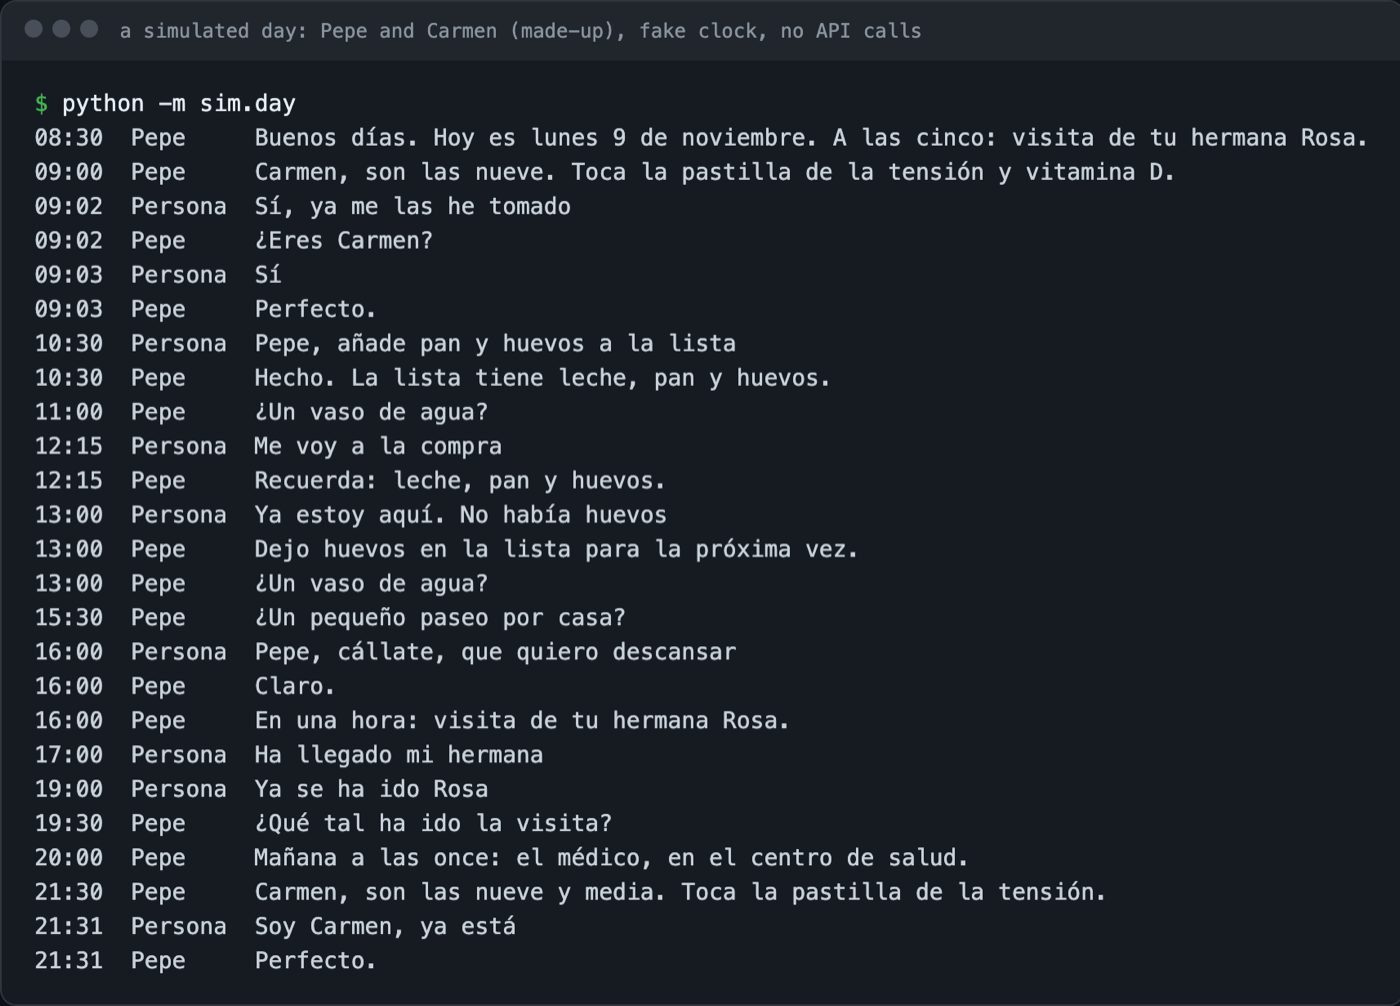
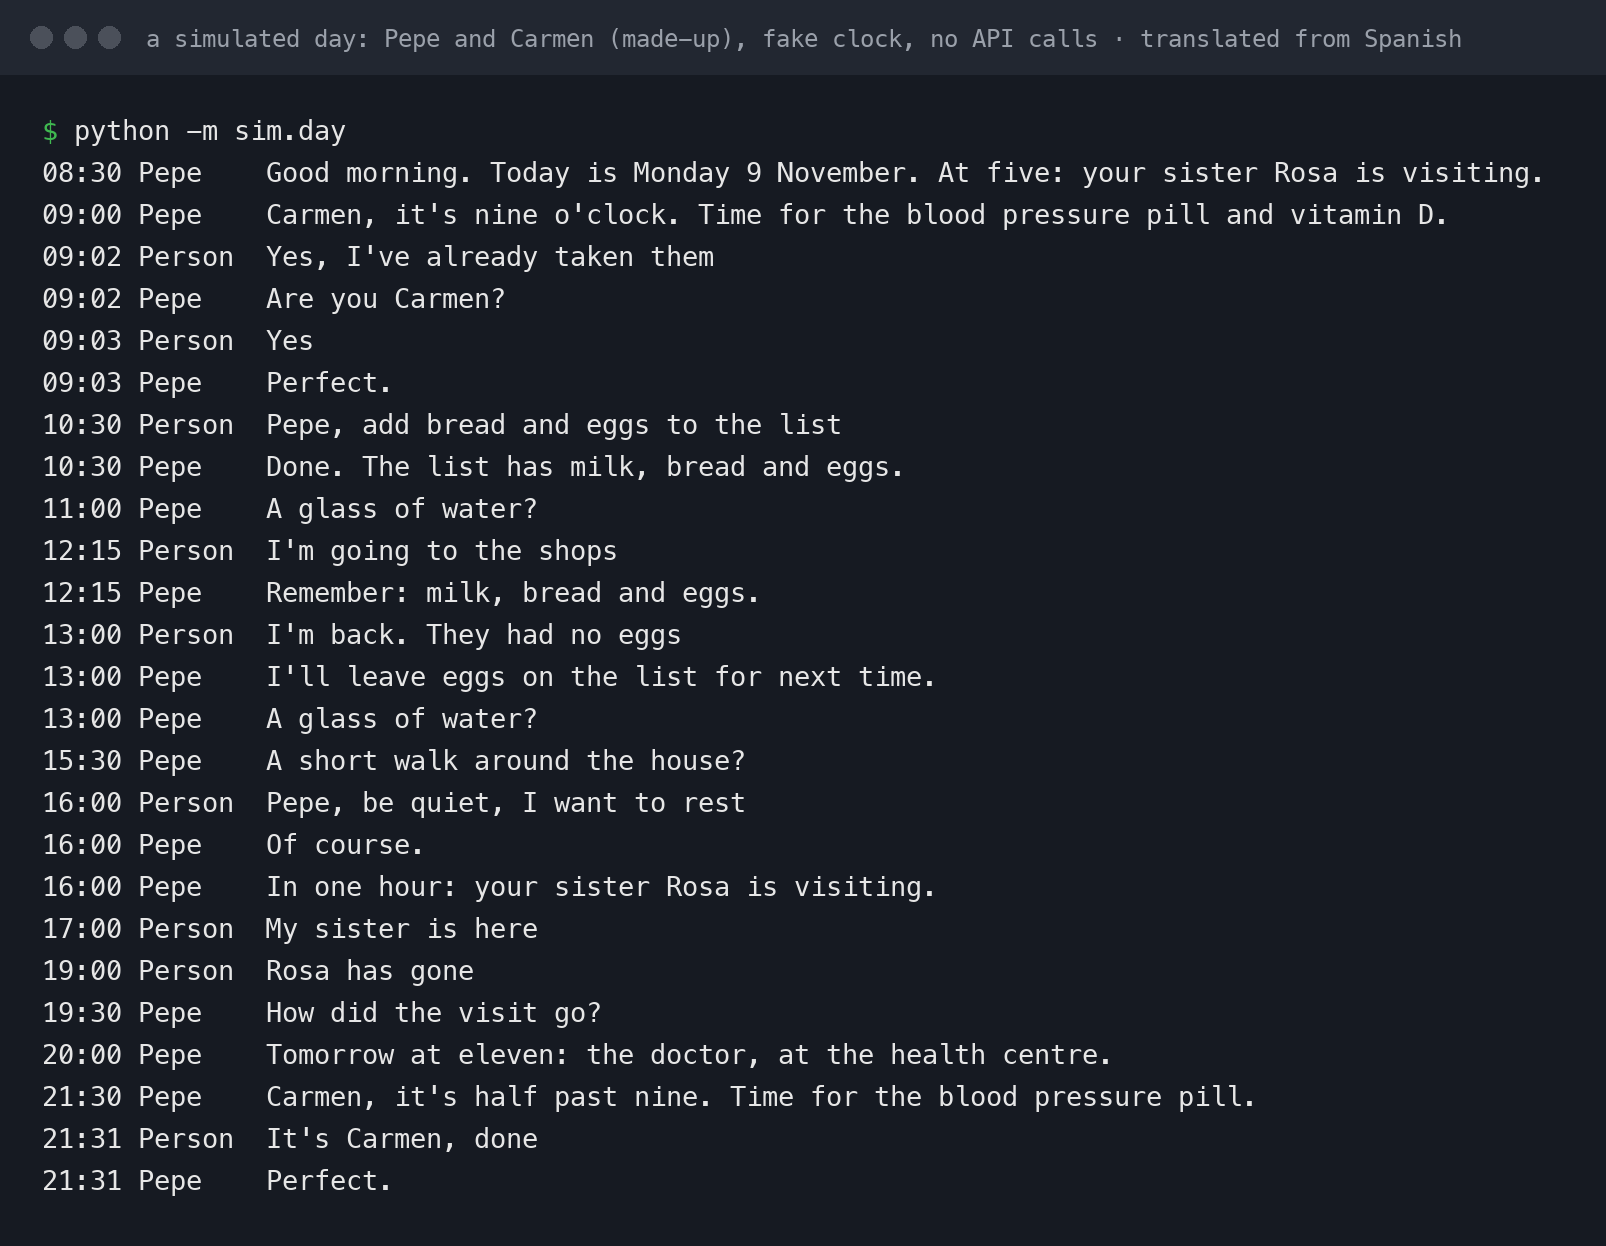
KORE in its new Persephone design, with the app, console and simulated day shown in English

diff --git a/index.html b/index.html
@@ -180,7 +180,7 @@ details.more li b{display:block;margin:0 0 1px;font-size:14.5px;color:var(--fg)}
 <section class="view" id="projects">
  <div class="ctrl"><div><div class="eyebrow">Projects</div><h2 style="margin-bottom:4px">What I'm building.</h2><div class="dragh">Scroll sideways or drag → · click a project to open it</div></div>
  <div class="arrows"><button id="pl" aria-label="Previous">←</button><button id="pr" aria-label="Next">→</button></div></div>
- <div class="prow" id="prow"><a class="pcard dark" href="#p-sylvie" style="background:radial-gradient(120% 90% at 50% 100%,#3B2A7A 0%,#16122E 55%,#0B0A14 100%)"><div class="plabel">Local AI assistant</div><div class="pname">Sylvie</div><div class="art"><div class="shotc syl"><div class="sbar"><i></i><i></i><i></i><span>Sylvie · running on my laptop</span><b class="sorb"></b></div><div class="sbody"><div class="sm a">Hey Lea, what are we building today?</div><div class="sm b">Résume mes notes de finance 📄</div><div class="sm a">Voilà : 3 points clés, avec les sources.</div><div class="sm b">¿Y qué tengo mañana?</div><div class="sm a typing"><u></u><u></u><u></u></div></div><div class="sstat"><span>Qwen 9B · 27B</span><span>Runs locally</span><span>EN · ES · FR</span></div></div></div></a><a class="pcard dark" href="#p-traderbunny" style="background:linear-gradient(160deg,#0F3B2A 0%,#0B1F17 60%,#06120D 100%)"><div class="plabel">AI investment committee</div><div class="pname">TradeBunny</div><div class="art"><div class="shotc"><img src="demos/tradebunny-debate.png" alt="A TradeBunny council meeting: blind memos, objections, rebuttals, risk check and verdict" loading="lazy"></div></div></a><a class="pcard" href="#p-studiply" style="background:linear-gradient(180deg,#FFFFFF 0%,#F3EEFF 55%,#E3D7FF 100%)"><div class="plabel">iPhone &amp; web app</div><div class="pname">Studiply</div><div class="art"><div class="shotc"><img src="demos/studiply.png" alt="Studiply turning a lecture into a summary, with the study assistant" loading="lazy"></div></div></a><a class="pcard dark" href="#p-survival" style="background:linear-gradient(170deg,#3A0F14 0%,#1C0A0C 60%,#0E0607 100%)"><div class="plabel">AI trading experiment</div><div class="pname">Survival Council</div><div class="art"><div class="shotc"><img src="demos/survival-council.png" alt="Survival Council live dashboard" loading="lazy"></div></div></a><a class="pcard" href="#p-kore" style="background:linear-gradient(170deg,#FFF6E6 0%,#FFE3C7 55%,#FFC9A8 100%)"><div class="plabel">Voice companion · Robotics</div><div class="pname">KORE</div><div class="art"><div class="phoneshot"><img src="demos/kore-home.png" alt="KORE on a phone: Carmen's home screen with her next reminder, today's pills, a button to talk to Pepe and the shopping list" loading="lazy"></div></div></a></div>
+ <div class="prow" id="prow"><a class="pcard dark" href="#p-sylvie" style="background:radial-gradient(120% 90% at 50% 100%,#3B2A7A 0%,#16122E 55%,#0B0A14 100%)"><div class="plabel">Local AI assistant</div><div class="pname">Sylvie</div><div class="art"><div class="shotc syl"><div class="sbar"><i></i><i></i><i></i><span>Sylvie · running on my laptop</span><b class="sorb"></b></div><div class="sbody"><div class="sm a">Hey Lea, what are we building today?</div><div class="sm b">Résume mes notes de finance 📄</div><div class="sm a">Voilà : 3 points clés, avec les sources.</div><div class="sm b">¿Y qué tengo mañana?</div><div class="sm a typing"><u></u><u></u><u></u></div></div><div class="sstat"><span>Qwen 9B · 27B</span><span>Runs locally</span><span>EN · ES · FR</span></div></div></div></a><a class="pcard dark" href="#p-traderbunny" style="background:linear-gradient(160deg,#0F3B2A 0%,#0B1F17 60%,#06120D 100%)"><div class="plabel">AI investment committee</div><div class="pname">TradeBunny</div><div class="art"><div class="shotc"><img src="demos/tradebunny-debate.png" alt="A TradeBunny council meeting: blind memos, objections, rebuttals, risk check and verdict" loading="lazy"></div></div></a><a class="pcard" href="#p-studiply" style="background:linear-gradient(180deg,#FFFFFF 0%,#F3EEFF 55%,#E3D7FF 100%)"><div class="plabel">iPhone &amp; web app</div><div class="pname">Studiply</div><div class="art"><div class="shotc"><img src="demos/studiply.png" alt="Studiply turning a lecture into a summary, with the study assistant" loading="lazy"></div></div></a><a class="pcard dark" href="#p-survival" style="background:linear-gradient(170deg,#3A0F14 0%,#1C0A0C 60%,#0E0607 100%)"><div class="plabel">AI trading experiment</div><div class="pname">Survival Council</div><div class="art"><div class="shotc"><img src="demos/survival-council.png" alt="Survival Council live dashboard" loading="lazy"></div></div></a><a class="pcard" href="#p-kore" style="background:linear-gradient(170deg,#FBF7F1 0%,#F3E8D6 55%,#E9C9C4 100%)"><div class="plabel">Voice companion · Robotics</div><div class="pname">KORE</div><div class="art"><div class="phoneshot"><img src="demos/kore-home.png" alt="KORE on a phone, shown in English: Carmen's home screen with a button to talk to Pepe, what comes next, today's pills and the shopping list" loading="lazy"></div></div></a></div>
 </section>
 
 <section class="view" id="p-sylvie">
@@ -225,12 +225,12 @@ details.more li b{display:block;margin:0 0 1px;font-size:14.5px;color:var(--fg)}
  </div>
 </section><section class="view" id="p-kore">
  <a class="back" href="#projects">← All projects</a>
- <div class="dhero" style="background:linear-gradient(170deg,#FFF6E6 0%,#FFE3C7 55%,#FFC9A8 100%)"><div class="dtext"><div class="plabel">Voice companion · Work in progress</div><h2>KORE</h2><p>A Spanish voice companion for older people. Code handles safety.</p><div class="dbtns"><a class="btn dark" href="https://github.com/lpesseygirod/kore" target="_blank">View code on GitHub ↗</a><a class="btn" href="https://github.com/lpesseygirod/kore#readme" target="_blank">Read the README</a><a class="btn glass" href="#demo-kore">Watch demo ↓</a></div></div><div class="art big"><div class="phoneshot"><img src="demos/kore-home.png" alt="KORE on a phone: Carmen's home screen with her next reminder, today's pills, a button to talk to Pepe and the shopping list" loading="lazy"></div></div></div>
+ <div class="dhero" style="background:linear-gradient(170deg,#FBF7F1 0%,#F3E8D6 55%,#E9C9C4 100%)"><div class="dtext"><div class="plabel">Voice companion · Work in progress</div><h2>KORE</h2><p>A Spanish voice companion for older people. Code handles safety.</p><div class="dbtns"><a class="btn dark" href="https://github.com/lpesseygirod/kore" target="_blank">View code on GitHub ↗</a><a class="btn" href="https://github.com/lpesseygirod/kore#readme" target="_blank">Read the README</a><a class="btn glass" href="#demo-kore">Watch demo ↓</a></div></div><div class="art big"><div class="phoneshot"><img src="demos/kore-home.png" alt="KORE on a phone, shown in English: Carmen's home screen with a button to talk to Pepe, what comes next, today's pills and the shopping list" loading="lazy"></div></div></div>
  <div class="dgrid">
-  <div class="block wide"><h4>Overview</h4><p>KORE is a voice companion in Spanish for older people who don't use apps easily. Its voice, Pepe, starts conversations, reminds them about medicines and appointments, and keeps them in touch with family. I built it around one rule: the AI chooses the words, but tested code decides anything about medicines, messages or help.</p><div class="more" hidden><p>I started KORE with my grandparents in mind. In a home of two, "yes, I took it" from the wrong person is a medication error, so Pepe asks who is speaking before recording anything personal.</p><p>It's written in Python around one SQLite database. A reminder engine decides when things are due. A manners layer decides whether and how to say them. The conversation runs on the Claude API, which can only act through 46 tools.</p><p>The hardest part was making the AI unable to cause harm. Before a medicine, appointment or message is saved, code writes the sentence the person says yes to, so it matches what is stored. Outside text (news, family messages, photos) blocks every change in that turn, so a headline can't give Pepe orders.</p><p>A yes only counts when code checks it: the next turn, the same person, no "pero". The database makes logging a dose twice impossible.</p><p>I wrote more than 1,000 offline tests. A fake clock simulates a whole day in 0.12 seconds. I also wrote 71 scenarios, like chest pain or a scam call. Each runs five times against the real model, and a separate AI judge scores it. Medicine, safety and honesty must pass 5 out of 5.</p><p>Next, I want Sylvie, my own local model, to become the brain instead of Claude.</p></div><button class="readmore" type="button" aria-expanded="false">Read more ↓</button></div>
+  <div class="block wide"><h4>Overview</h4><p>KORE is a voice companion in Spanish for older people who don't use apps easily. Its voice, Pepe, starts conversations, reminds them about medicines and appointments, and keeps them in touch with family. I built it around one rule: the AI chooses the words, but tested code decides anything about medicines, messages or help.</p><div class="more" hidden><p>I started KORE with my grandparents in mind. In a home of two, "yes, I took it" from the wrong person is a medication error, so Pepe asks who is speaking before recording anything personal.</p><p>It's written in Python around one SQLite database. A reminder engine decides when things are due. A manners layer decides whether and how to say them. The conversation runs on the Claude API, which can only act through 46 tools.</p><p>The hardest part was making the AI unable to cause harm. Before a medicine, appointment or message is saved, code writes the sentence the person says yes to, so it matches what is stored. Outside text (news, family messages, photos) blocks every change in that turn, so a headline can't give Pepe orders.</p><p>A yes only counts when code checks it: the next turn, the same person, no "but". The database makes logging a dose twice impossible.</p><p>I wrote more than 1,000 offline tests. A fake clock simulates a whole day in 0.12 seconds. I also wrote 71 scenarios, like chest pain or a scam call. Each runs five times against the real model, and a separate AI judge scores it. Medicine, safety and honesty must pass 5 out of 5.</p><p>Next, I want Sylvie, my own local model, to become the brain instead of Claude.</p></div><button class="readmore" type="button" aria-expanded="false">Read more ↓</button></div>
   <div class="block"><h4>Built with</h4><div class="chips"><span>Python</span><span>Claude API</span><span>SQLite</span><span>Starlette</span><span>ElevenLabs</span><span>Apple speech recognition</span><span>Raspberry Pi 5</span><span>Telegram</span><span>Twilio</span><span>pytest</span></div></div>
-  <div class="block full"><h4>How it works</h4><div class="steps"><div class="step"><em>1</em><b>Notice</b><span>The scheduler times medicine reminders, with two retries, and appointments. It needs no internet.</span></div><div class="step"><em>2</em><b>Decide</b><span>The manners layer checks the night, quiet mode, visitors and who is home. With visitors, a private reminder becomes a chime.</span></div><div class="step"><em>3</em><b>Talk</b><span>Claude gets their words plus a state block written by code: the time, who is speaking, any visitors. It answers in short spoken Spanish.</span></div><div class="step"><em>4</em><b>Confirm</b><span>To save a medicine or send a message, code writes a read-back like "¿Lo envío?". Only a clear yes on the next turn carries it out.</span></div><div class="step"><em>5</em><b>Get help</b><span>"Pepe, ayuda", a fall or the button runs a help path in code that messages family by Telegram and SMS. If nothing gets through, Pepe says so.</span></div></div></div>
-  <div class="block full" id="demo-kore"><h4>Demo</h4><div class="player"><div class="stage"><figure data-t="Carmen&#x27;s app" data-c="She logs in with the code Pepe says out loud, then checks her pills, agenda and shopping list, writes to Pepe (test mode, so a placeholder answers) and opens the help page." data-d="37900"><img src="demos/kore-phone.webp" alt="She logs in with the code Pepe says out loud, then checks her pills, agenda and shopping list, writes to Pepe (test mode, so a placeholder answers) and opens the help page." loading="lazy"></figure><figure data-t="The family console" data-c="What I see to look after it: today&#x27;s doses, the calendar, what Pepe remembers about them and the permissions they gave." data-d="25900"><img src="demos/kore-console.webp" alt="What I see to look after it: today&#x27;s doses, the calendar, what Pepe remembers about them and the permissions they gave." loading="lazy"></figure><figure data-t="A simulated day" data-c="Pepe reminds Carmen about her pills, the shopping list and visits across a whole day." data-d="7000"><img src="demos/kore-day.png" alt="Pepe reminds Carmen about her pills, the shopping list and visits across a whole day." loading="lazy"></figure><button class="big" aria-label="Play">▶</button></div><div class="pctl"><button class="pp" aria-label="Pause">❚❚</button><div class="segs"><i><b></b></i><i><b></b></i><i><b></b></i></div><button class="pv" aria-label="Previous">‹</button><button class="nx" aria-label="Next">›</button></div><p class="pcap"><b></b> <span></span></p></div><p class="cap">Recorded from the real app running offline on made-up data.</p></div>
+  <div class="block full"><h4>How it works</h4><div class="steps"><div class="step"><em>1</em><b>Notice</b><span>The scheduler times medicine reminders, with two retries, and appointments. It needs no internet.</span></div><div class="step"><em>2</em><b>Decide</b><span>The manners layer checks the night, quiet mode, visitors and who is home. With visitors, a private reminder becomes a chime.</span></div><div class="step"><em>3</em><b>Talk</b><span>Claude gets their words plus a state block written by code: the time, who is speaking, any visitors. It answers in short spoken Spanish.</span></div><div class="step"><em>4</em><b>Confirm</b><span>To save a medicine or send a message, code writes a read-back like "Shall I send it?". Only a clear yes on the next turn carries it out.</span></div><div class="step"><em>5</em><b>Get help</b><span>"Pepe, help", a fall or the button runs a help path in code that messages family by Telegram and SMS. If nothing gets through, Pepe says so.</span></div></div></div>
+  <div class="block full" id="demo-kore"><h4>Demo</h4><div class="player"><div class="stage"><figure data-t="Carmen&#x27;s app" data-c="She logs in with the code Pepe says out loud, checks her pills and agenda, adds eggs to the shopping list, writes to Pepe (test mode, so a placeholder answers), then opens her family and the help page." data-d="41800"><img src="demos/kore-phone.webp" alt="She logs in with the code Pepe says out loud, checks her pills and agenda, adds eggs to the shopping list, writes to Pepe (test mode, so a placeholder answers), then opens her family and the help page." loading="lazy"></figure><figure data-t="The family console" data-c="What I see to look after it: the device, today&#x27;s doses, the week&#x27;s calendar, what Pepe remembers and the permissions they gave." data-d="25900"><img src="demos/kore-console.webp" alt="What I see to look after it: the device, today&#x27;s doses, the week&#x27;s calendar, what Pepe remembers and the permissions they gave." loading="lazy"></figure><figure data-t="A simulated day" data-c="A whole day with a fake clock and no API calls: Pepe reminds Carmen about her pills, checks who is speaking before logging a dose, and keeps the shopping list." data-d="7000"><img src="demos/kore-day.png" alt="A whole day with a fake clock and no API calls: Pepe reminds Carmen about her pills, checks who is speaking before logging a dose, and keeps the shopping list." loading="lazy"></figure><button class="big" aria-label="Play">▶</button></div><div class="pctl"><button class="pp" aria-label="Pause">❚❚</button><div class="segs"><i><b></b></i><i><b></b></i><i><b></b></i></div><button class="pv" aria-label="Previous">‹</button><button class="nx" aria-label="Next">›</button></div><p class="pcap"><b></b> <span></span></p></div><p class="cap">Recorded from the real app running offline on made-up data. KORE speaks Spanish; the demos are shown translated into English.</p></div>
   <div class="block"><h4>Code</h4><a class="repo" href="https://github.com/lpesseygirod/kore" target="_blank"><b>lpesseygirod / kore</b><span>Source code, README, setup instructions</span><em>Open ↗</em></a><h4 style="margin-top:22px">What's next</h4><ul><li>Sylvie, my own local model, as the brain, once it passes the same tests</li><li>Running the Raspberry Pi 5 box on real hardware</li><li>A trial with my grandparents at home</li><li>A wake word, so they can say "Pepe" instead of pressing a button</li></ul></div>
  </div>
 </section>
